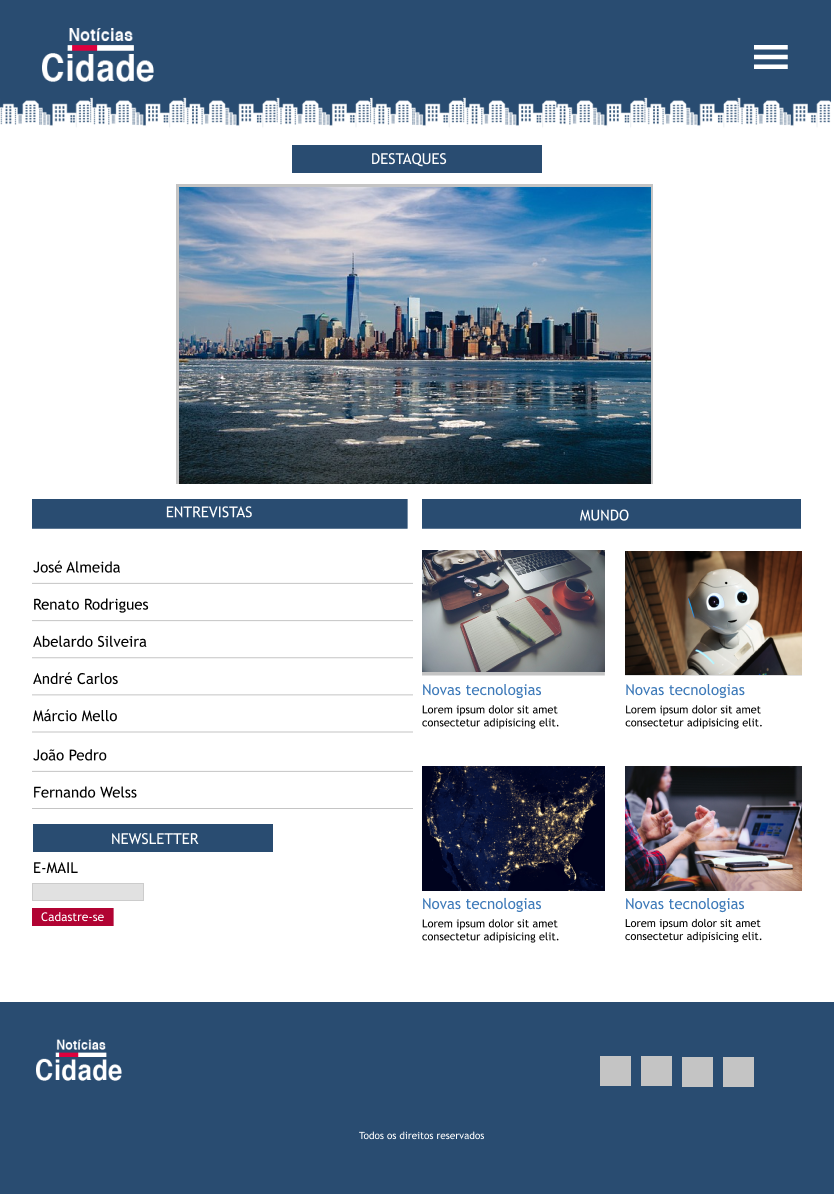
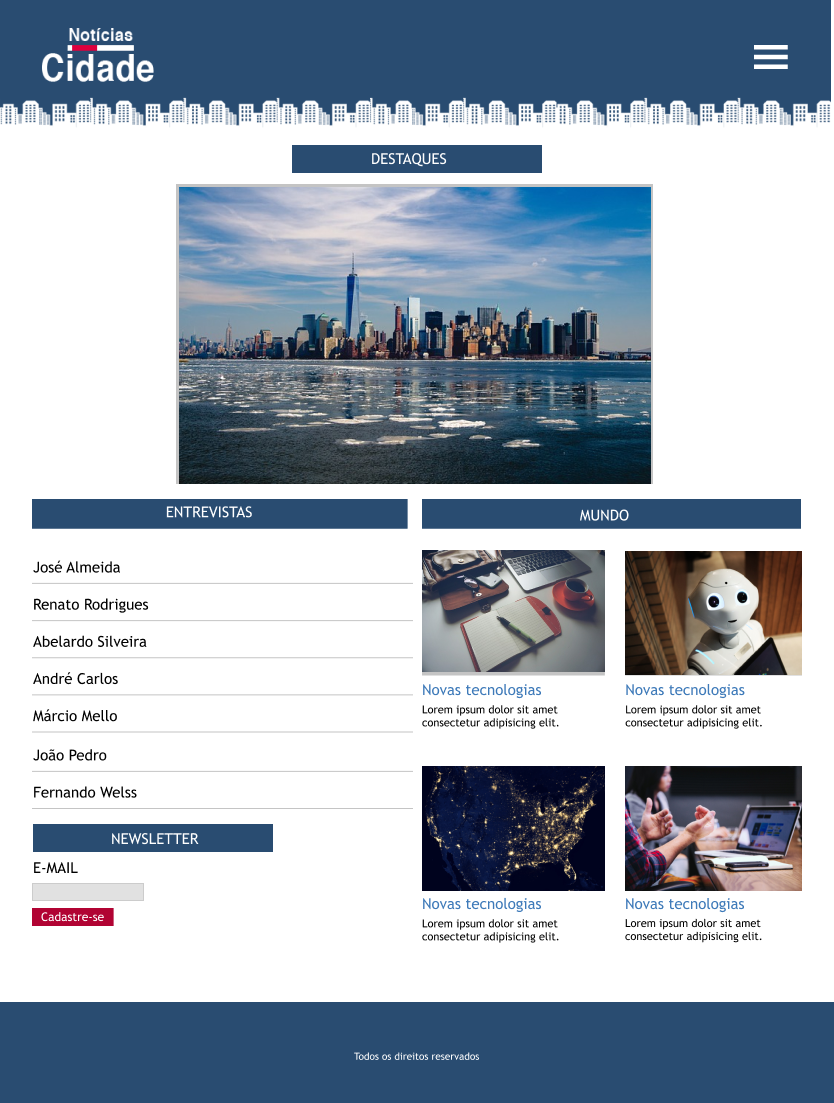
update_README.2

diff --git a/html/home.html b/html/home.html
@@ -163,9 +163,7 @@
 
     <section>
       <footer class="col-12">
-        <div>
-          <img src="../img/recursos/logo.png" alt="logo" />
-        </div>
+        
         <div>
           <p>&copy; Todos os direitos reservados</p>
         </div>

diff --git a/README.md b/README.md
@@ -5,4 +5,4 @@
 
 ![UI_NC_mobile](./img/UI_NC/iPhone%208%20-%201.png)
 ![UI_NC_Ipad](./img/UI_NC/iPad%20Pro%2011_%20-%201.png)
-![UI_NC_desktop](./img/UI_NC/Desktop%20-%201.png)
+![UI_NC_desktop](./img/UI_NC//Desktop%20-%201.png)
